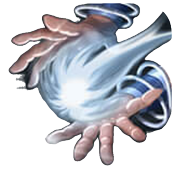
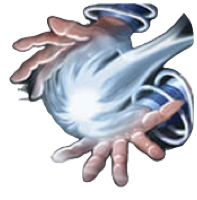
optimizations

diff --git a/index.html b/index.html
@@ -188,7 +188,7 @@
                     <!-- Box 6 -->
                     <section id="box6" class="box"
                         style="text-align: center; display: flex; flex-direction: column; align-items: center; justify-content: space-evenly;">
-                        <img src="/Halmgaard/HalmMap.webp" alt="Box 6" style="max-width: 55%; height: auto;">
+                        <img src="/Halmgaard/HalmMap.jpeg" alt="Box 6" style="max-width: 55%; height: auto;">
                         <p><a href="/Halmgaard/MapGuide/index.html" class="blue-box"
                                 onclick="event.preventDefault(); loadContent('/Halmgaard/MapGuide/');"
                                 style="display: inline-block; padding: 10px 18px; background-color: #0066cc; color: white; text-decoration: none; border-radius: 5px; font-size: 15px;">Map
